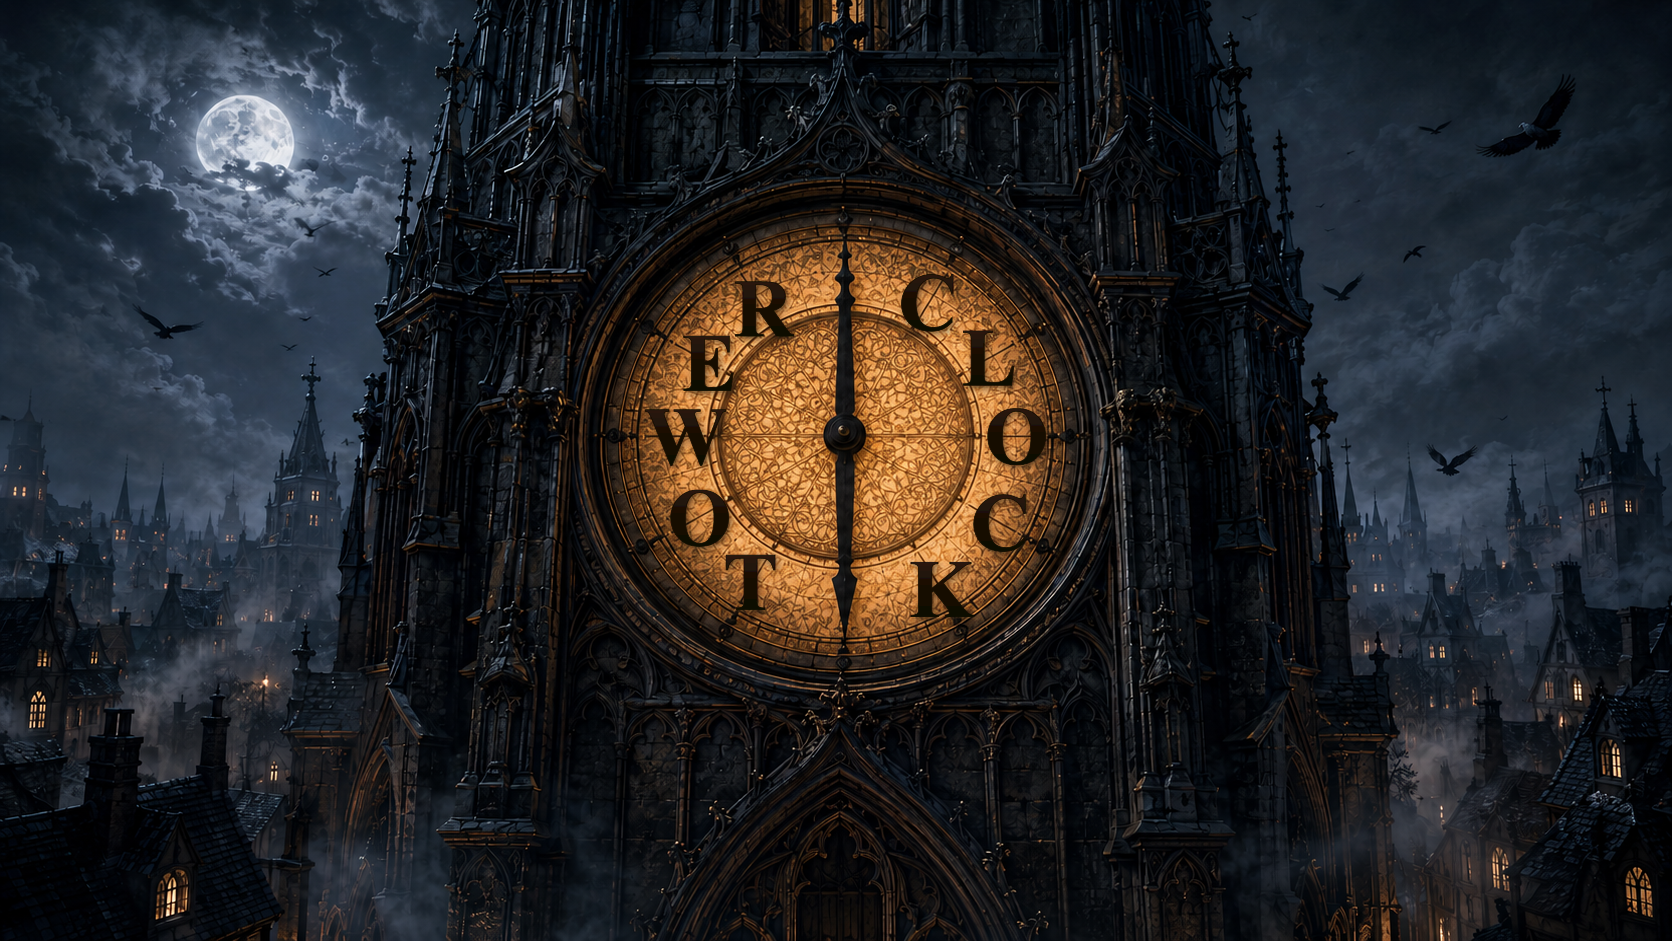
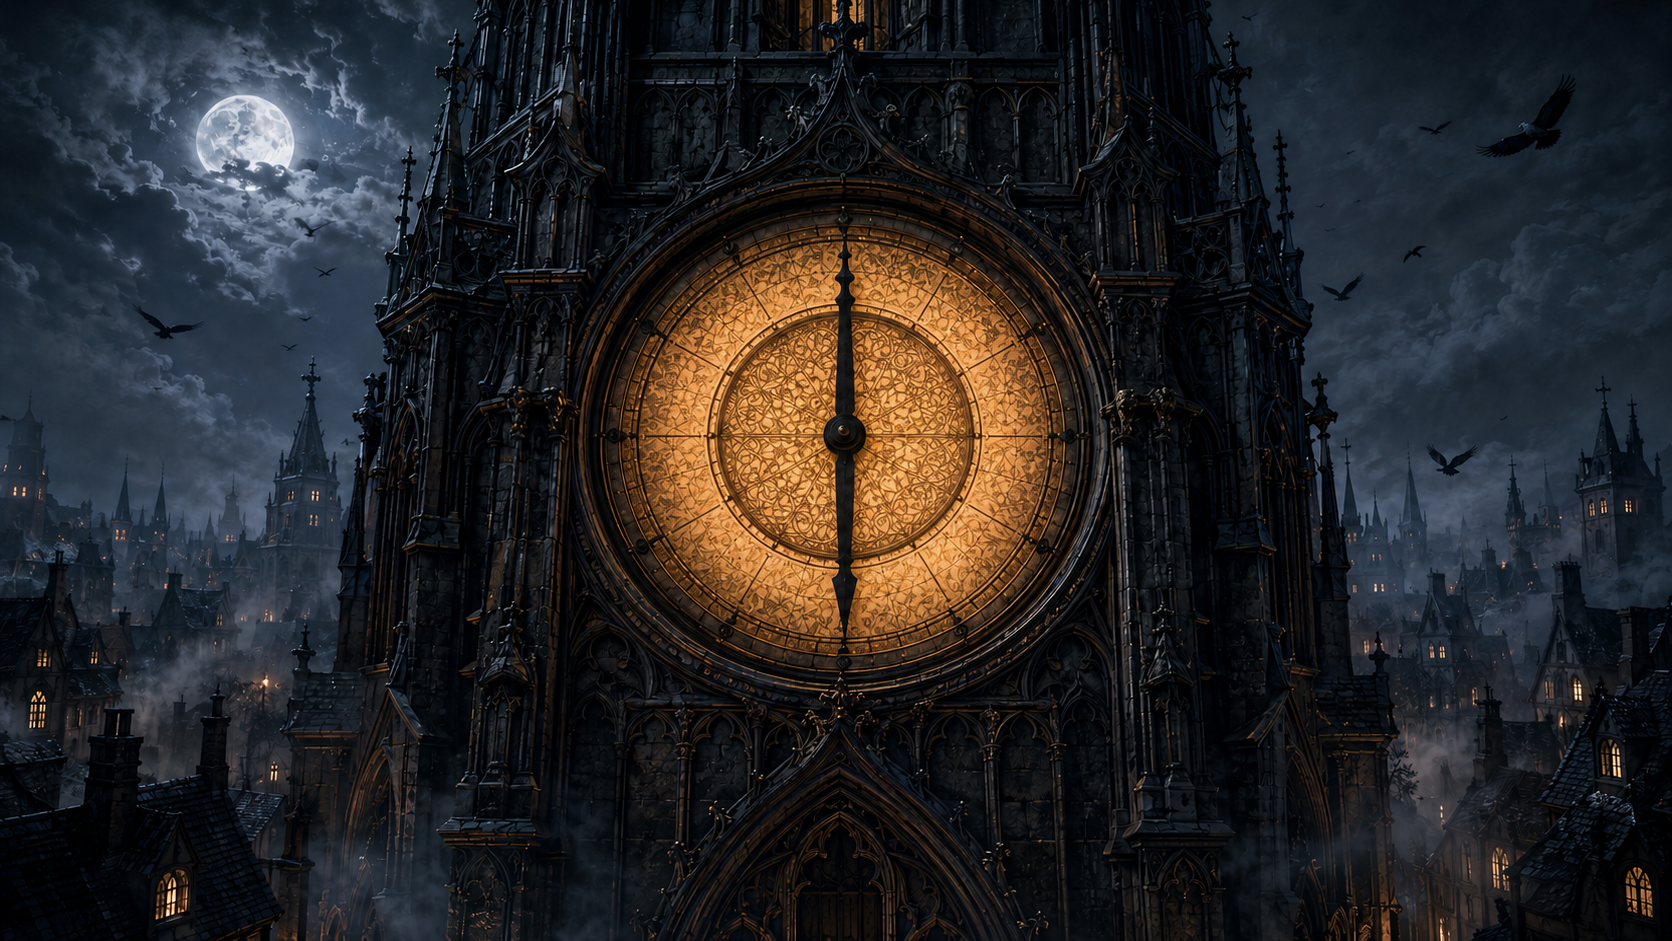
Static everywhere the page is static; everything rides the face unit
The dial's CLOCKTOWER letters leave the baked image and become ten
plain DOM letters on the measured tick rays — image-pixel numbers in
CSS anyone can adjust — over the clean art. One --fpx unit (the cover
fit's real scale) sizes letters, doors and offsets, so the whole
composition tracks the clock face at any viewport. Blood drop-caps
sized by static classes, not runtime style. Title steps back 5px.

diff --git a/src/components/Intro.vue b/src/components/Intro.vue
@@ -13,7 +13,7 @@
         <ul class="doors">
           <li @click="press('a')">
             <span class="key"
-              ><img :src="blood.A.src" :style="bloodStyle('A')" alt="A"
+              ><img :src="blood.A.src" class="blood-cap-a" alt="A"
             /></span>dd Players
           </li>
         </ul>
@@ -55,17 +55,17 @@
         <ul class="doors" v-if="!mode">
           <li @click="openHost">
             <span class="key"
-              ><img :src="blood.H.src" :style="bloodStyle('H')" alt="H"
+              ><img :src="blood.H.src" class="blood-cap-h" alt="H"
             /></span>ost
           </li>
           <li @click="openJoin">
             <span class="key"
-              ><img :src="blood.J.src" :style="bloodStyle('J')" alt="J"
+              ><img :src="blood.J.src" class="blood-cap-j" alt="J"
             /></span>oin
           </li>
           <li @click="press('c')">
             <span class="key"
-              ><img :src="blood.C.src" :style="bloodStyle('C')" alt="C"
+              ><img :src="blood.C.src" class="blood-cap-c" alt="C"
             /></span>reate
           </li>
         </ul>
@@ -324,8 +324,8 @@ import { getRecents, peekScript } from "../golem/scripts";
 // Metrics are image px against a 180px reference font with the glyph baseline
 // at image y=400; the drop-cap displays at 1.09x the key font (the 1.45x
 // original, sized down ~25% for the vertical door stack), so ems convert as
-// 1.09 / (180 * 2x).
-const BLOOD_EM_PER_PX = 1.09 / 360;
+// 1.09 / (180 * 2x) = 1.09/360 em per trimmed pixel — the static
+// .blood-cap-* sizes in the style block below are that conversion, baked.
 const BLOOD = {
   H: { src: bloodH, ...bloodMetrics.H },
   J: { src: bloodJ, ...bloodMetrics.J },
@@ -850,16 +850,6 @@ export default {
       this.titleStyle = (this.titleStyle + 1) % 3;
       localStorage.setItem("golem.titleStyle", String(this.titleStyle));
     },
-    bloodStyle(ch) {
-      const m = BLOOD[ch];
-      const em = (px) => (px * BLOOD_EM_PER_PX).toFixed(3) + "em";
-      return {
-        width: em(m.w),
-        height: em(m.h),
-        // sink the drip overhang below the text baseline
-        verticalAlign: "-" + em(m.below)
-      };
-    },
     press(key) {
       // The hotkey listener lives on the App root element (@keyup), so a
       // document-dispatched synthetic event never reaches it. Intro is App's
@@ -922,8 +912,8 @@ export default {
     top: max(48px, 5vh);
     left: 50%;
     // user-calibrated 2026-08-17: the tower's face sits right of true
-    // center; the title follows it (same 10px step as the doors, +15 more).
-    transform: translateX(calc(-50% + 25px));
+    // center; the title follows it.
+    transform: translateX(calc(-50% + 20px));
     text-align: center;
     pointer-events: none;
     z-index: 3;
@@ -1013,22 +1003,23 @@ export default {
     flex-direction: column;
     align-items: stretch;
     justify-content: center;
-    gap: 4px;
-    padding: 10px 0;
+    // FT-852: everything in face pixels (--fpx, see App.vue) so the stack
+    // scales with the clock face; the translate is the dial-center offset
+    // (+15,-20.5 image px), which puts Join's center on the hub exactly.
+    gap: calc(5.5 * var(--fpx));
+    padding: calc(14 * var(--fpx)) 0;
     margin: 0 auto;
-    // narrow enough to sit INSIDE the dial's letter ring, never over it —
-    // user-calibrated 2026-08-17: 120px wide, 10px right of true center,
-    // whole stack raised 35px beyond the hub nudge so Join sits on the hub.
-    width: min(120px, 50vw);
-    transform: translate(10px, calc(-2vh - 35px));
+    width: calc(164 * var(--fpx));
+    font-size: calc(53 * var(--fpx));
+    transform: translate(calc(15 * var(--fpx)), calc(-20.5 * var(--fpx)));
 
     li {
       font-family: PiratesBay, sans-serif;
       letter-spacing: 1px;
-      font-size: 140%;
+      font-size: 100%;
       cursor: pointer;
       text-align: center;
-      padding: 10px 7px;
+      padding: 0.26em 0.18em;
       background: rgba(0, 0, 0, 0.9);
       border: 3px solid black;
       border-radius: 10px;
@@ -1045,7 +1036,7 @@ export default {
       // Host and Create sit 25% smaller.
       &:nth-child(1),
       &:nth-child(3) {
-        font-size: 105%;
+        font-size: 75%;
       }
 
       .key {
@@ -1058,11 +1049,16 @@ export default {
         display: inline-block;
 
         // Golem fork (FT-846): the baked blood drop-cap; drips hang over the
-        // door edge, above its border.
+        // door edge, above its border. Static per-letter sizing (from the
+        // alphabet's trimmed metrics, baked here as plain CSS — FT-852).
         img {
           position: relative;
           z-index: 2;
         }
+        .blood-cap-a { width: 0.805em; height: 0.927em; vertical-align: -0.124em; }
+        .blood-cap-h { width: 0.712em; height: 0.927em; vertical-align: -0.127em; }
+        .blood-cap-j { width: 0.681em; height: 0.936em; vertical-align: -0.136em; }
+        .blood-cap-c { width: 0.687em; height: 0.942em; vertical-align: -0.139em; }
       }
     }
   }

diff --git a/src/App.vue b/src/App.vue
@@ -22,6 +22,22 @@
       loop
     ></video>
     <div class="backdrop"></div>
+    <!-- Golem fork (FT-852): the dial's CLOCKTOWER letters are static DOM
+         now, not baked into the art — positions are plain numbers in
+         image-pixels (see --fpx below), adjustable in devtools and scaling
+         with the clock face at every viewport. -->
+    <div class="dial-letters" aria-hidden="true">
+      <span class="dl dl-c1">C</span>
+      <span class="dl dl-l">L</span>
+      <span class="dl dl-o1">O</span>
+      <span class="dl dl-c2">C</span>
+      <span class="dl dl-k">K</span>
+      <span class="dl dl-t">T</span>
+      <span class="dl dl-o2">O</span>
+      <span class="dl dl-w">W</span>
+      <span class="dl dl-e">E</span>
+      <span class="dl dl-r">R</span>
+    </div>
     <transition name="blur">
       <!-- Golem fork: while the host is BUILDING (hosting, roles undealt) the
            town centre is the tools panel — from zero seats up. TownInfo
@@ -559,6 +575,43 @@ video#background {
   width: 100%;
   height: 100%;
   object-fit: cover;
+}
+
+/* Golem fork (FT-852): one face-pixel — the unit the background's cover fit
+   actually draws at. The art is 1672×941 with the dial centered at
+   image (851,450); every dial-anchored element positions in these units so
+   it rides the face at any viewport. Adjust letters by editing the plain
+   numbers below (they are image pixels). */
+#app {
+  --fpx: max(0.05981vw, 0.10627vh);
+}
+#app > .dial-letters {
+  position: absolute;
+  inset: 0;
+  pointer-events: none;
+  z-index: 1;
+  font-family: "Times New Roman", Times, serif;
+  font-weight: bold;
+  font-size: calc(82 * var(--fpx));
+  color: #180d05;
+  text-shadow: 0 calc(2 * var(--fpx)) calc(3 * var(--fpx)) rgba(0, 0, 0, 0.55);
+  .dl {
+    position: absolute;
+    transform: translate(-50%, -50%);
+    line-height: 1;
+  }
+  /* hour positions on the measured tick rays (image px from viewport
+     center, dial center offset +15,-20.5 already folded in) */
+  .dl-c1 { left: calc(50% + 91.9 * var(--fpx)); top: calc(50% + -167.6 * var(--fpx)); }
+  .dl-l  { left: calc(50% + 153.3 * var(--fpx)); top: calc(50% + -112.4 * var(--fpx)); }
+  .dl-o1 { left: calc(50% + 180.5 * var(--fpx)); top: calc(50% + -34.0 * var(--fpx)); }
+  .dl-c2 { left: calc(50% + 164.1 * var(--fpx)); top: calc(50% + 52.5 * var(--fpx)); }
+  .dl-k  { left: calc(50% + 105.0 * var(--fpx)); top: calc(50% + 119.0 * var(--fpx)); }
+  .dl-t  { left: calc(50% + -85.4 * var(--fpx)); top: calc(50% + 111.7 * var(--fpx)); }
+  .dl-o2 { left: calc(50% + -136.5 * var(--fpx)); top: calc(50% + 47.4 * var(--fpx)); }
+  .dl-w  { left: calc(50% + -150.5 * var(--fpx)); top: calc(50% + -33.5 * var(--fpx)); }
+  .dl-e  { left: calc(50% + -126.5 * var(--fpx)); top: calc(50% + -107.2 * var(--fpx)); }
+  .dl-r  { left: calc(50% + -72.5 * var(--fpx)); top: calc(50% + -161.6 * var(--fpx)); }
 }
 
 /* Night phase backdrop */
